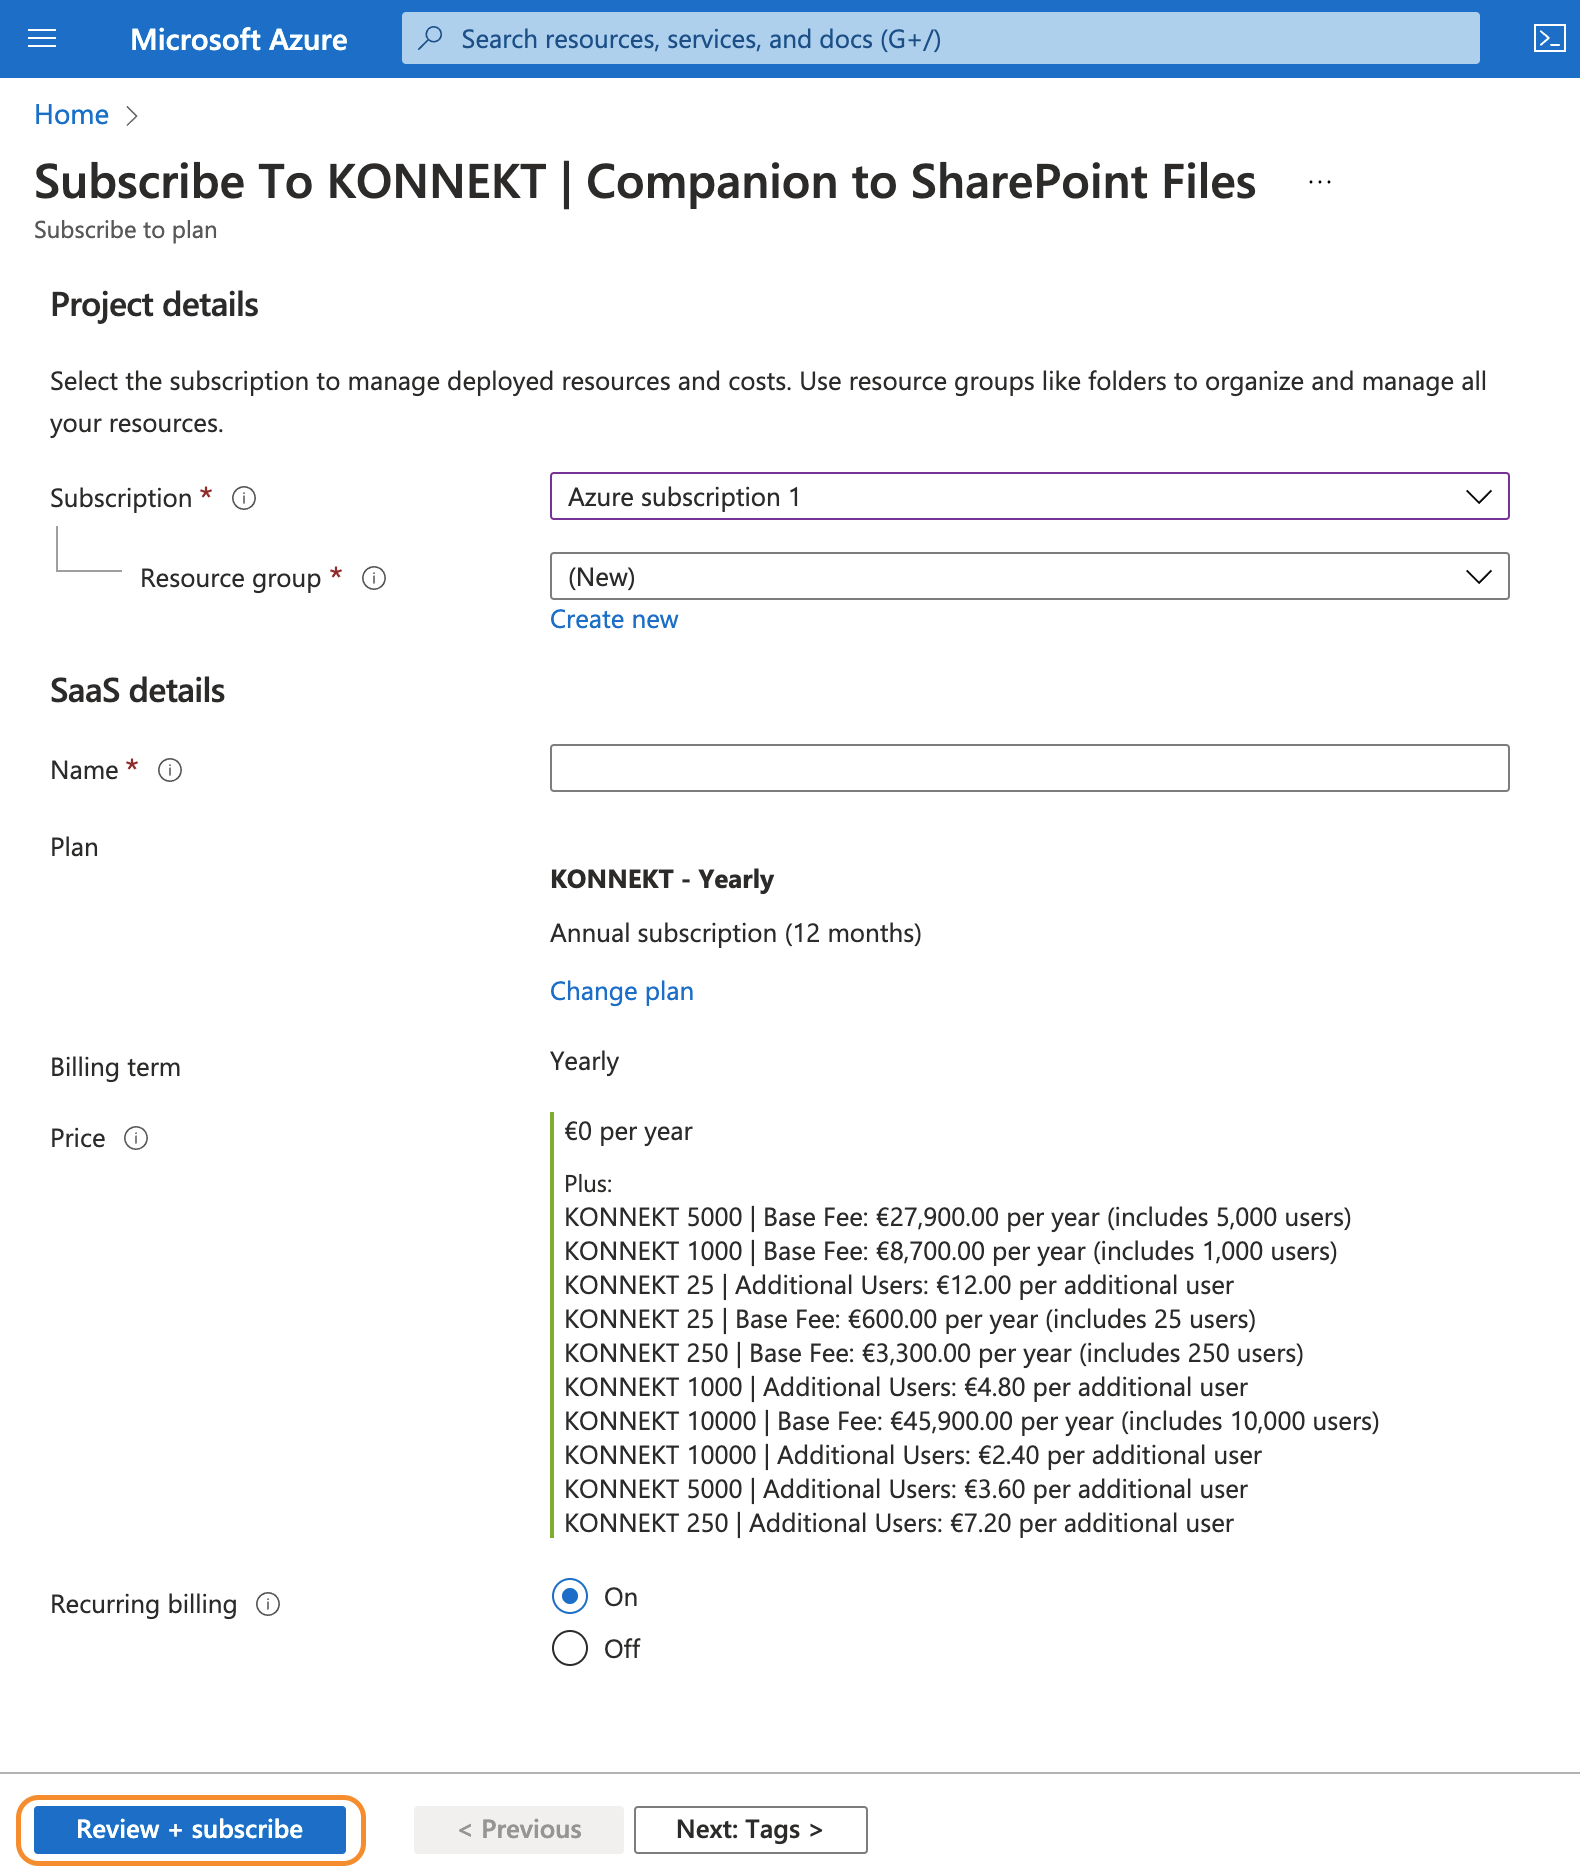
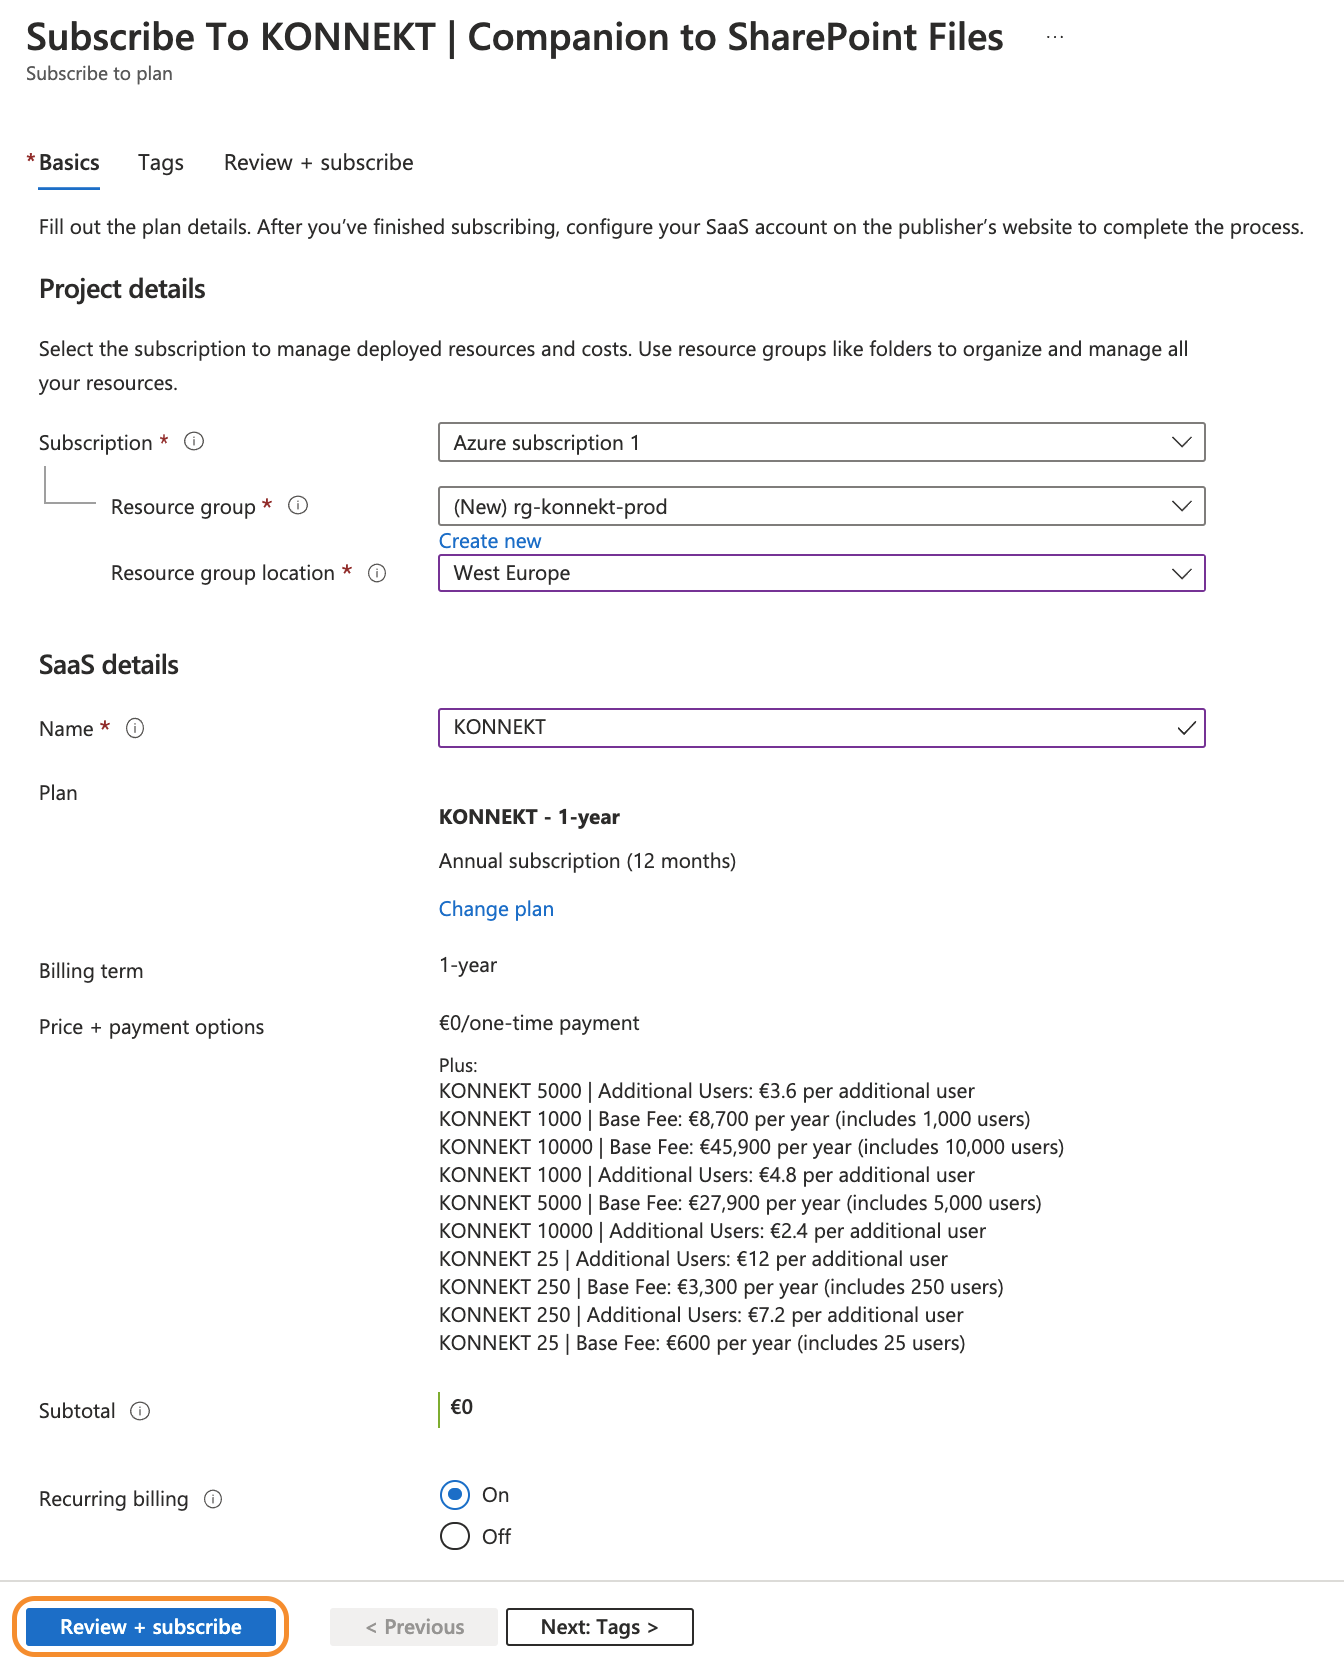
GitBook: [#344] No subject

diff --git a/licensing/azure-marketplace.md b/licensing/azure-marketplace.md
@@ -11,9 +11,12 @@
 * During the first subscription interval, your subscription fees are not immediately due after completing the subscription enrolment. Instead we will start billing once your cancellation grace period has expired.&#x20;
 * Upon every renewal date, you will be billed immediately.
 * The related items should appear on your Microsoft Azure invoice (Pay-As-You-Go) the month after we have reported your fees to Microsoft.
+* In the PDF invoice you will receive from Microsoft, all SCEPman fees are lumped into an item called "SaaS". The related Publisher is "glueckkanja-gab".
+
+![](<../.gitbook/assets/Screenshot 2022-02-18 at 12.39.15.png>)
 
 {% hint style="info" %}
-Both, the base fees as well as the additional users fees (if applicable) will appear as separate items on your Microsoft Azure invoice.
+For a more detailed cost breakdown of your base and additional user fees, please refer to the invoice in your Azure portal.
 {% endhint %}
 
 ## Plan Overview
@@ -44,7 +47,7 @@ For prices in Euro (EUR), please check out our <mark style="color:green;"></mark
 
 * If you would like to upgrade your user count, you can do that any time during the current subscription cycle by navigating to your **KONNEKT subscription** in the [Azure SaaS portal](https://portal.azure.com/#blade/HubsExtension/BrowseResourceBlade/resourceType/Microsoft.SaaS%2Fresources) <mark style="color:green;"></mark> and by clicking "Open SaaS Account on publisher's site" (see screenshot below). This will re-direct you to our platform where the amount of users can be upgraded.
 
-![](../.gitbook/assets/SaaSPortal\_changeSubscription.png)
+![](<../.gitbook/assets/Screenshot 2022-02-21 at 16.43.07 2.png>)
 
 * Our platform will inform you about the new fees you to expect for a **complete** subscription cycle.
 * For the current cycle, we will bill the additional users for remaining days only.
@@ -55,7 +58,7 @@ For prices in Euro (EUR), please check out our <mark style="color:green;"></mark
 * Downgrading the amount of users is currently not possible without cancelling the subscription.
 * If you want to perform a downgrade, please cancel your current subscription from the <mark style="color:green;"></mark> [Azure SaaS portal](https://portal.azure.com/#blade/HubsExtension/BrowseResourceBlade/resourceType/Microsoft.SaaS%2Fresources) towards the end of the current cycle by clicking "Cancel subscription" (see screenshot below) and re-subscribe with the desired user amount once the cancellation becomes effective.
 
-![](../.gitbook/assets/SaaSPortal\_cancelSubscription.png)
+![](<../.gitbook/assets/Screenshot 2022-02-21 at 16.43.07 3.png>)
 
 * Please do not forget to update the license key in your KONNEKT installation(s) afterwards as described in [here](https://docs.konnekt.io/configuration/other/license-key-on-multi-user-environments).
 
@@ -68,10 +71,14 @@ In case you would like to test KONNEKT, please [get in contact with us](https://
 To get started with your KONNEKT subscription,
 
 * Locate KONNEKT on the **Marketplace** in your [**Azure Portal**](https://portal.azure.com/#create/glueckkanja-gabag.radiusaas-transactable-prod/preview).&#x20;
+* Click "Subscribe"
 
-![](<../.gitbook/assets/image (29).png>)
+![](<../.gitbook/assets/image (31).png>)
 
-* Click "Set up + subscribe". The annual plan for KONNEKT is already pre-selected. We recommend to keep **Recurring billing** **on** so that you do not have to worry about a manual renewal of your subscription. Click "Review + subscribe" to deploy the subscription to your Azure SaaS portal.
+* Create or select the **Resource group** you would like to deploy the subscription to
+* Assign a **Name** to later identify your SCEPman subscription
+* We recommend to keep **Recurring billing** on **** so that you do not have to worry about a manual renewal of your subscription.
+* Click "Review + subscribe" and in the next blade "Subscribe" to deploy the subscription to your Azure SaaS portal.
 
 ![](<../.gitbook/assets/image (30).png>)
 
@@ -79,10 +86,13 @@ To get started with your KONNEKT subscription,
 The random order of **Base Fees** und **Additional Users** under the **Price** information is attributed to limitations of the Azure Marketplace. Later during the the enrolment process, we will provide you with transparent information on the expected licensing costs.
 {% endhint %}
 
-* Once you have successfully deployed the SaaS subscription into your Azure SaaS portal, please navigate to our platform by clicking "Configure account now"
+* Once the deployment is complete, please navigate to our platform by clicking "Configure account now"
+
+![](<../.gitbook/assets/image (25).png>)
+
 * After authenticating on our platform using your Microsoft credentials, you will be prompted for additional information, such as the desired **total user amount** and a **technical admin contact**.
 
-![](<../.gitbook/assets/konnekt-landing-page (2).png>)
+![](../.gitbook/assets/Screenshot\_2022-02-21\_at\_16\_38\_12.png)
 
 * Based on the amount of users provided on our platform, we will charge the relevant base fee for your user segment as well as additional users, in case you require more than the included amount in your base fee.
 * The platform will show you the licensing fees you have to expect under **Cost Projection**.
@@ -91,7 +101,7 @@ The random order of **Base Fees** und **Additional Users** under the **Price** i
 For CSP deals we cannot display the Cost Projection as CSP margins might be in place.
 {% endhint %}
 
-* If you are happy with it, please complete the enrolment by clicking **submit**, which triggers us to generate your KONNEKT **license key**. You will receive this key as part of our welcome email including all relevant information on the next steps (e.g. how to install KONNEKT on your clients). This won't take any longer than one business day.
+* If you are happy with it, please complete the enrolment by clicking S**ubmit**, which triggers us to generate a license key for KONNEKT. You will receive this key as part of our welcome email including all relevant information on the next steps (e.g. how to install KONNEKT on your clients). This won't take any longer than one business day.
 
 {% hint style="info" %}
 You will only be charged by Microsoft, once you have completed the enrolment on our landing page and received our welcome email.
